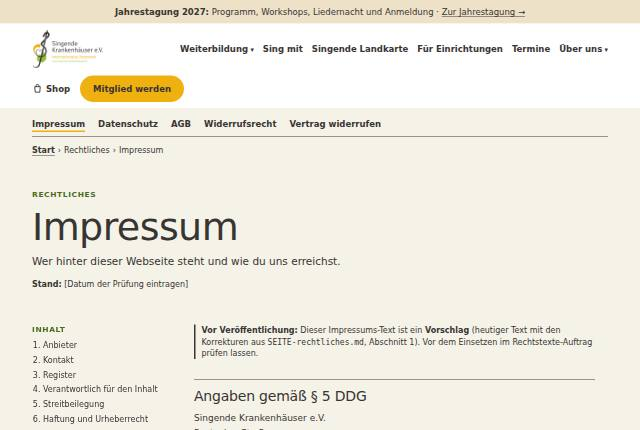
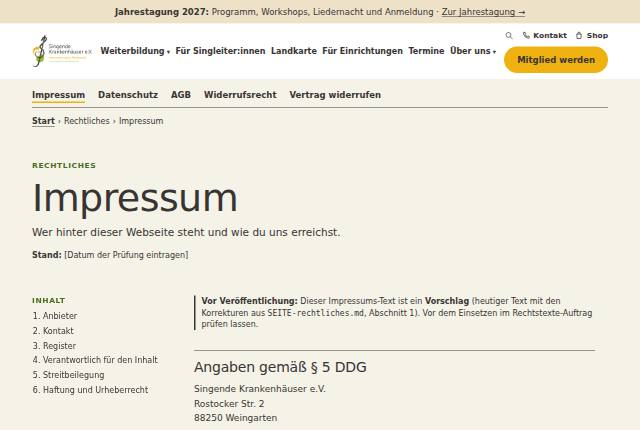
skh-design: Abnahme – Navigation nach Zielgruppen nachgezogen, Vorschaubilder neu
Claude-Session: https://claude.ai/code/session_017FLSxz8BCNSE19ZVdCLY1z

diff --git a/skh-design/abnahme.html b/skh-design/abnahme.html
@@ -1156,7 +1156,7 @@ k.forEach(function(x){m[x]="vorschau-foto-"+x+".html";});var h=location.hash.sli
   <p class="ab-intro">Diese Entscheidungen tragen alle Seiten. Einige hat Tom als Vorstand schon getroffen – bitte trotzdem bestätigen, damit sie gemeinsam getragen sind. Die Begründung steht jeweils im genannten Dokument.</p>
   <ol class="ab-g">
     <li><b>Stil „Vorschlag Tom“</b>: große warme Fotos, Tiefgrün, ein gelber Knopf, Schrift PT Sans. <span>Bedingung: gute Fotos und Einwilligungen aller erkennbaren Personen. → <code>DESIGN-foto.md</code>, Abschnitt 1</span></li>
-    <li><b>Menü mit sechs Punkten</b> – Weiterbildung, Sing mit, Singende Landkarte, Für Einrichtungen, Termine, Über uns – und dem gelben Knopf „Mitglied werden“. Kontakt, Shop, Downloads, Häufige Fragen und Rechtliches stehen in der Fußzeile; der Shop hat zusätzlich einen kleinen Link oben neben „Mitglied werden“. <span>→ <code>DESIGN-foto.md</code>, Abschnitt 5</span></li>
+    <li><b>Menü mit sechs Punkten</b> – Weiterbildung, Für Singleiter:innen, Landkarte, Für Einrichtungen, Termine, Über uns – und dem gelben Knopf „Mitglied werden“; darüber klein Suche, Kontakt und Shop. Kontakt, Shop, Downloads, Häufige Fragen und Rechtliches stehen in der Fußzeile; der Shop hat zusätzlich einen kleinen Link oben neben „Mitglied werden“. <span>→ <code>DESIGN-foto.md</code>, Abschnitt 5</span></li>
     <li><b>Die Jahrestagung bleibt, wie sie ist</b> (Gestaltung der Webdesignerin); nur Kopf- und Fußzeile werden automatisch neu. <span>→ <code>DESIGN-foto.md</code>, Abschnitt 5</span></li>
     <li><b>Weniger Seiten:</b> Über uns wird eine Seite statt sieben; die zwei Zweig-Seiten und „Wichtige Infos“ gehen in „Weiterbildung“ auf; die Veranstaltungsliste geht in „Termine“ auf; drei Wix-Vorlagenseiten werden gelöscht. Alte Adressen werden weitergeleitet. <span>→ <code>SEITE-aufraeumen.md</code>, Abschnitte 1 und 3</span></li>
     <li><b>Drei neue Seiten:</b> Downloads &amp; Formulare, Häufige Fragen, Vertrag widerrufen (Widerrufs-Knopf, Pflicht seit 19.06.2026). <span>→ <code>SEITE-downloads.md</code>, <code>SEITE-faq.md</code>, <code>SEITE-anmeldung.md</code></span></li>
@@ -1180,8 +1180,8 @@ k.forEach(function(x){m[x]="vorschau-foto-"+x+".html";});var h=location.hash.sli
       <h3><a href="vorschau-foto-dozenten.html">Dozent:innen →</a></h3><p>Porträt-Raster mit Zweig-Filter, Werdegänge bereinigt.</p><p class="ab-who"><b>Wer ist gefragt?</b> Vera, Sandra, Dozent:innen</p><p class="ab-doc">Gründe: <code>SEITE-dozenten.md</code></p></article>
     <article class="ab-card"><a class="ab-shot" href="vorschau-foto-anmeldung.html"><img src="abnahme/vorschau-foto-anmeldung.jpg" alt="Vorschau Anmeldung Weiterbildung" loading="lazy" width="640" height="430"></a>
       <h3><a href="vorschau-foto-anmeldung.html">Anmeldung Weiterbildung →</a></h3><p>Formular in vier Teilen, „So geht es weiter“, Widerrufs-Knopf.</p><p class="ab-who"><b>Wer ist gefragt?</b> Sandra, Vera, Sonja, Vorstand</p><p class="ab-doc">Gründe: <code>SEITE-anmeldung.md</code></p></article>
-    <article class="ab-card"><a class="ab-shot" href="vorschau-foto-sing-mit.html"><img src="abnahme/vorschau-foto-sing-mit.jpg" alt="Vorschau Sing mit" loading="lazy" width="640" height="430"></a>
-      <h3><a href="vorschau-foto-sing-mit.html">Sing mit →</a></h3><p>Singleiter:in sein, drei Schritte, Zertifikat beantragen an einem Ort.</p><p class="ab-who"><b>Wer ist gefragt?</b> Sonja, Sandra, Vera</p><p class="ab-doc">Gründe: <code>SEITE-sing-mit.md</code></p></article>
+    <article class="ab-card"><a class="ab-shot" href="vorschau-foto-sing-mit.html"><img src="abnahme/vorschau-foto-sing-mit.jpg" alt="Vorschau Für Singleiter:innen" loading="lazy" width="640" height="430"></a>
+      <h3><a href="vorschau-foto-sing-mit.html">Für Singleiter:innen (bisher „Sing mit“) →</a></h3><p>Singleiter:in sein, drei Schritte, Zertifikat beantragen an einem Ort.</p><p class="ab-who"><b>Wer ist gefragt?</b> Sonja, Sandra, Vera</p><p class="ab-doc">Gründe: <code>SEITE-sing-mit.md</code></p></article>
     <article class="ab-card"><a class="ab-shot" href="vorschau-foto-landkarte.html"><img src="abnahme/vorschau-foto-landkarte.jpg" alt="Vorschau Singende Landkarte" loading="lazy" width="640" height="430"></a>
       <h3><a href="vorschau-foto-landkarte.html">Singende Landkarte →</a></h3><p>Karte neu eingerahmt, PLZ-Suche, „Wie komme ich auf die Karte?“, Datenschutz.</p><p class="ab-who"><b>Wer ist gefragt?</b> Tom (betreut die Karte)</p><p class="ab-doc">Gründe: <code>SEITE-landkarte.md</code></p></article>
     <article class="ab-card"><a class="ab-shot" href="vorschau-foto-einrichtungen.html"><img src="abnahme/vorschau-foto-einrichtungen.jpg" alt="Vorschau Für Einrichtungen" loading="lazy" width="640" height="430"></a>
@@ -1287,7 +1287,7 @@ k.forEach(function(x){m[x]="vorschau-foto-"+x+".html";});var h=location.hash.sli
       <tr><td>Weiterbildung</td><td class="bx">☐</td><td class="bx">☐</td><td></td></tr>
       <tr><td>Dozent:innen</td><td class="bx">☐</td><td class="bx">☐</td><td></td></tr>
       <tr><td>Anmeldung Weiterbildung</td><td class="bx">☐</td><td class="bx">☐</td><td></td></tr>
-      <tr><td>Sing mit</td><td class="bx">☐</td><td class="bx">☐</td><td></td></tr>
+      <tr><td>Für Singleiter:innen (Sing mit)</td><td class="bx">☐</td><td class="bx">☐</td><td></td></tr>
       <tr><td>Singende Landkarte</td><td class="bx">☐</td><td class="bx">☐</td><td></td></tr>
       <tr><td>Für Einrichtungen</td><td class="bx">☐</td><td class="bx">☐</td><td></td></tr>
       <tr><td>Termine</td><td class="bx">☐</td><td class="bx">☐</td><td></td></tr>
@@ -1320,7 +1320,7 @@ k.forEach(function(x){m[x]="vorschau-foto-"+x+".html";});var h=location.hash.sli
 // Rückmeldebogen: speichert je Person ein Dokument bogen/<id> (Speicher des veröffentlichten Links).
 // Ohne Speicher (Datei lokal geöffnet, kein Zugang) bleibt der Bogen zum Abschreiben sichtbar.
 (async function(){
-  var ITEMS=[{"k": "g1", "t": "Grundsatz 1 · Stil „Vorschlag Tom“"}, {"k": "g2", "t": "Grundsatz 2 · Menü mit sechs Punkten"}, {"k": "g3", "t": "Grundsatz 3 · Jahrestagung bleibt"}, {"k": "g4", "t": "Grundsatz 4 · Weniger Seiten"}, {"k": "g5", "t": "Grundsatz 5 · Drei neue Seiten"}, {"k": "g6", "t": "Grundsatz 6 · Jede Information an einer Stelle"}, {"k": "g7", "t": "Grundsatz 7 · Du-Ansprache und Gendern"}, {"k": "g8", "t": "Grundsatz 8 · Ein Rechtstexte-Auftrag (Budget)"}, {"k": "g9", "t": "Grundsatz 9 · Name bei Google"}, {"k": "s-start", "t": "Seite · Startseite"}, {"k": "s-weiterbildung", "t": "Seite · Weiterbildung"}, {"k": "s-dozenten", "t": "Seite · Dozent:innen"}, {"k": "s-anmeldung", "t": "Seite · Anmeldung Weiterbildung"}, {"k": "s-sing-mit", "t": "Seite · Sing mit"}, {"k": "s-landkarte", "t": "Seite · Singende Landkarte"}, {"k": "s-einrichtungen", "t": "Seite · Für Einrichtungen"}, {"k": "s-termine", "t": "Seite · Termine"}, {"k": "s-veranstaltung", "t": "Seite · Veranstaltungsseite"}, {"k": "s-ueber-uns", "t": "Seite · Über uns"}, {"k": "s-mitglied-sein", "t": "Seite · Mitglied sein"}, {"k": "s-netzwerk", "t": "Seite · Aus dem Netzwerk"}, {"k": "s-kontakt", "t": "Seite · Kontakt"}, {"k": "s-downloads", "t": "Seite · Downloads & Formulare"}, {"k": "s-shop", "t": "Seite · Shop"}, {"k": "s-faq", "t": "Seite · Häufige Fragen"}, {"k": "s-rechtliches", "t": "Seite · Rechtliches"}];
+  var ITEMS=[{"k": "g1", "t": "Grundsatz 1 · Stil „Vorschlag Tom“"}, {"k": "g2", "t": "Grundsatz 2 · Menü mit sechs Punkten"}, {"k": "g3", "t": "Grundsatz 3 · Jahrestagung bleibt"}, {"k": "g4", "t": "Grundsatz 4 · Weniger Seiten"}, {"k": "g5", "t": "Grundsatz 5 · Drei neue Seiten"}, {"k": "g6", "t": "Grundsatz 6 · Jede Information an einer Stelle"}, {"k": "g7", "t": "Grundsatz 7 · Du-Ansprache und Gendern"}, {"k": "g8", "t": "Grundsatz 8 · Ein Rechtstexte-Auftrag (Budget)"}, {"k": "g9", "t": "Grundsatz 9 · Name bei Google"}, {"k": "s-start", "t": "Seite · Startseite"}, {"k": "s-weiterbildung", "t": "Seite · Weiterbildung"}, {"k": "s-dozenten", "t": "Seite · Dozent:innen"}, {"k": "s-anmeldung", "t": "Seite · Anmeldung Weiterbildung"}, {"k": "s-sing-mit", "t": "Seite · Für Singleiter:innen (Sing mit)"}, {"k": "s-landkarte", "t": "Seite · Singende Landkarte"}, {"k": "s-einrichtungen", "t": "Seite · Für Einrichtungen"}, {"k": "s-termine", "t": "Seite · Termine"}, {"k": "s-veranstaltung", "t": "Seite · Veranstaltungsseite"}, {"k": "s-ueber-uns", "t": "Seite · Über uns"}, {"k": "s-mitglied-sein", "t": "Seite · Mitglied sein"}, {"k": "s-netzwerk", "t": "Seite · Aus dem Netzwerk"}, {"k": "s-kontakt", "t": "Seite · Kontakt"}, {"k": "s-downloads", "t": "Seite · Downloads & Formulare"}, {"k": "s-shop", "t": "Seite · Shop"}, {"k": "s-faq", "t": "Seite · Häufige Fragen"}, {"k": "s-rechtliches", "t": "Seite · Rechtliches"}];
   if(!window.claude||!window.claude.use) return;
   var res=await Promise.all([window.claude.use("db"),window.claude.use("user")]);
   var db=res[0], user=res[1];

diff --git a/skh-design/ABNAHME.md b/skh-design/ABNAHME.md
@@ -130,6 +130,13 @@ Neue Seite nach Entscheidung Tom (`SEITE-netzwerk.md`). In `abnahme.html` ergän
 bleiben erhalten), Direktlink `#netzwerk`, „17 Seiten“ im Kopf. Mitgeprüft werden dabei die geänderte Startseite (Abschnitt „Aktuelles“)
 und „Mitglied sein“ (`#fokus`), deren Vorschaubilder unverändert bleiben (Änderung liegt unterhalb des sichtbaren Ausschnitts).
 
+### Nachtrag (26.09.2026): Navigation nach Zielgruppen
+
+Menüpunkt „Sing mit“ heißt „Für Singleiter:innen“, „Singende Landkarte“ im Menü kurz „Landkarte“; Startseite mit vierter Frage
+(Einrichtungen); Kopfleiste rechts mit Suche, Kontakt und Shop über „Mitglied werden“; Fußzeile „Für Mitglieder“. In `abnahme.html`
+angepasst: Grundsatz 2 (Menü), Karte und Bogenzeile „Für Singleiter:innen (Sing mit)“ – der Schlüssel `s-sing-mit` bleibt, bisherige
+Rückmeldungen bleiben erhalten. Alle Vorschaubilder neu erzeugt (Kopfleiste geändert). Begründung: `DESIGN-foto.md`, Abschnitt 4.
+
 ### Direktlinks (26.09.2026)
 
 Jede Vorschau lässt sich direkt aufrufen: Adresse des Abnahme-Links + `#` + Seitenname, z. B.
